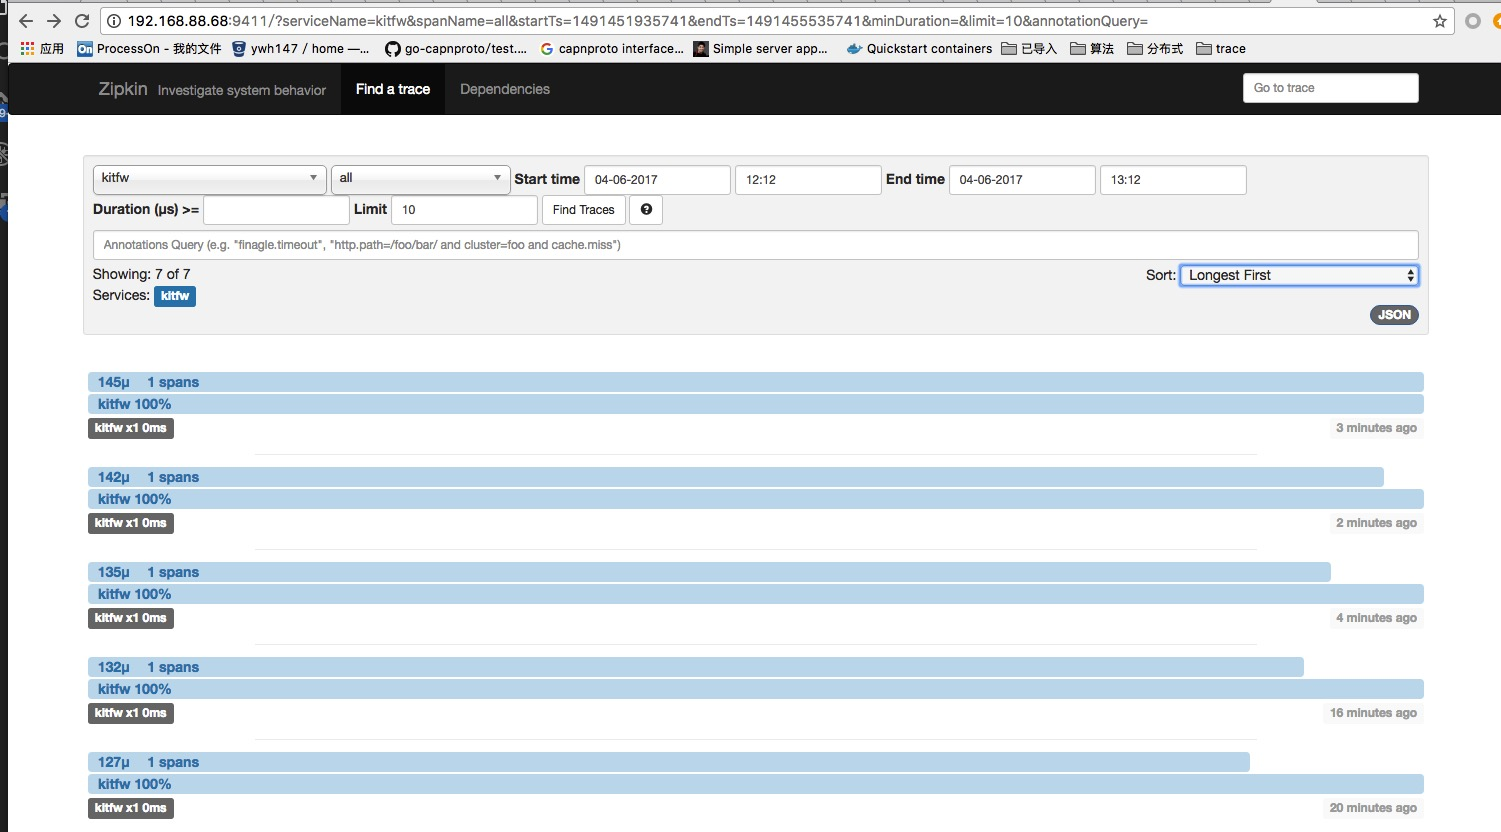
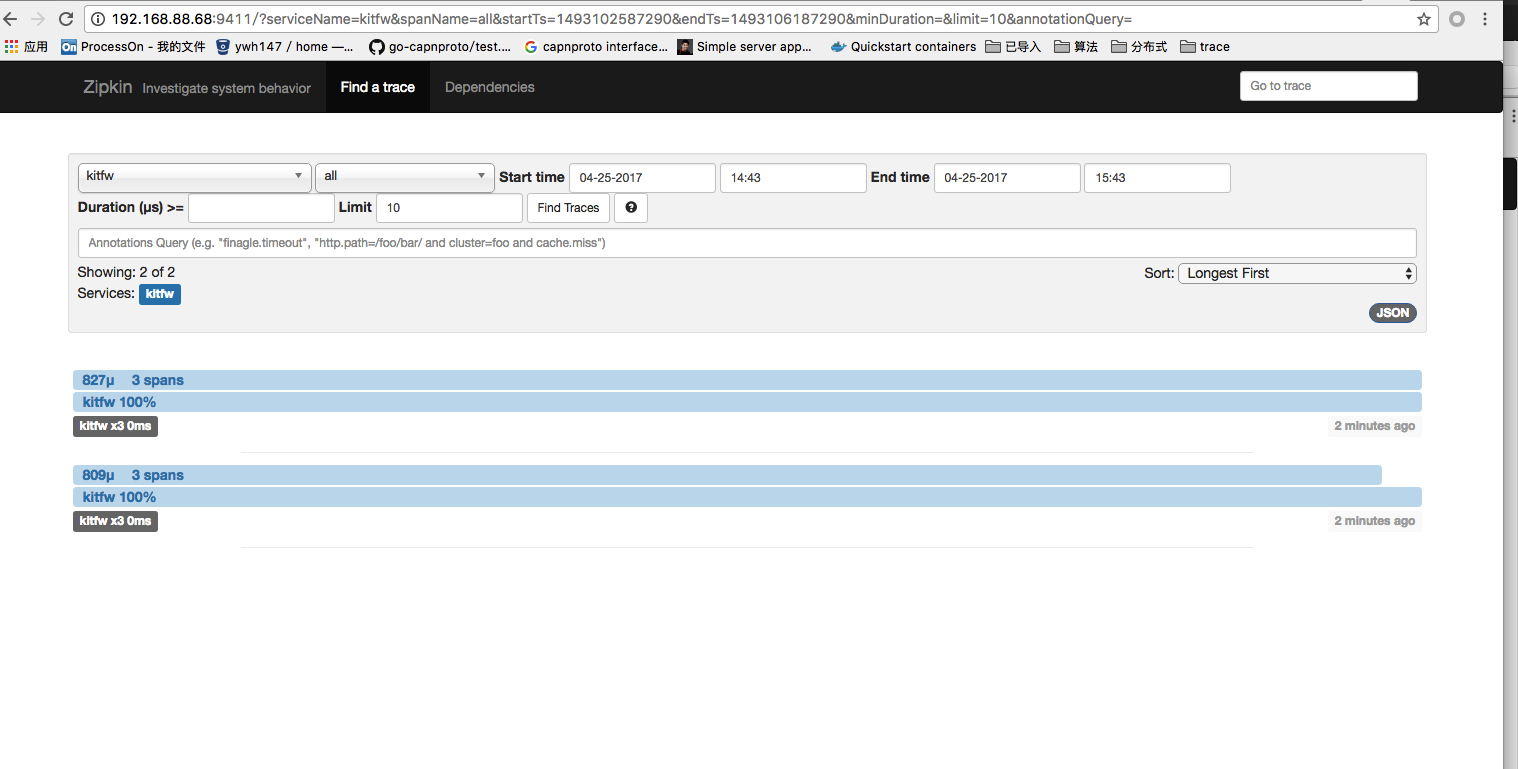
update read

diff --git a/README.md b/README.md
@@ -54,3 +54,5 @@ $ go build kitfw/sg/client
  ![image](https://github.com/yangwenhai/kitfw/blob/master/image/client.png)
 
  ![image](https://github.com/yangwenhai/kitfw/blob/master/image/zipkin.png)
+
+ ![image](https://github.com/yangwenhai/kitfw/blob/master/image/zipkin_detail.png.png)
